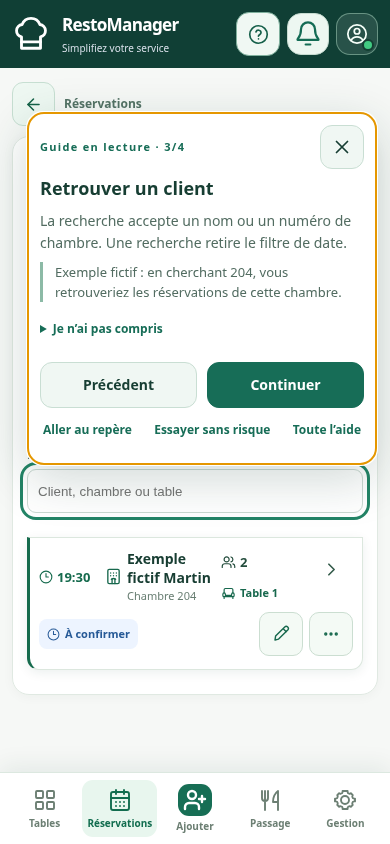
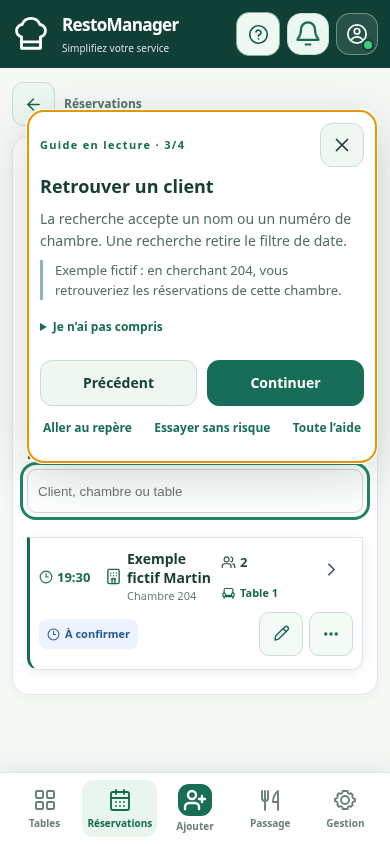
fix(rm016): keep reading controls visible with larger fonts and preserve management coverage

diff --git a/service-v3-tutorial.js b/service-v3-tutorial.js
@@ -39,7 +39,7 @@ export function installTutorial({user, profile, management}) {
 
   function status(message) { centerStatus.textContent = message || (memoryOnly ? 'Votre progression est conservée pour cette visite seulement : l’enregistrement sur cet appareil est indisponible.' : navigator.onLine === false ? 'L’aide reste consultable hors connexion. Les données du service peuvent être anciennes.' : ''); }
   function releaseFrame() { trainingFrame?.remove(); trainingFrame = null; trainingToken = null; }
-  function closeCenter({restore = true} = {}) { releaseFrame(); if (center.open) center.close(); document.body.style.overflow = previousOverflow; helpButton.setAttribute('aria-expanded', 'false'); if (restore && returnFocus?.isConnected) returnFocus.focus({preventScroll: true}); }
+  function closeCenter({restore = true} = {}) { releaseFrame(); if (center.open) center.close(); document.body.style.overflow = previousOverflow; helpButton.setAttribute('aria-expanded', 'false'); if (restore) (returnFocus?.isConnected && visible(returnFocus) ? returnFocus : helpButton).focus({preventScroll: true}); }
   function openCenter(options = {}) {
     if (!validIdentity()) return false;
     const origin = session ? helpButton : document.activeElement;
@@ -133,7 +133,8 @@ export function installTutorial({user, profile, management}) {
     const practice = button('Essayer sans risque', () => { const scenario = session?.course.id === 'notifications' ? 'notifications' : session?.course.id === 'new-booking' ? 'booking' : 'welcome'; openCenter(); showPractice(scenario); }, 'rmLearnTextButton');
     const help = button('Toute l’aide', () => openCenter(), 'rmLearnTextButton');
     const links = el('div', 'rmLearnCoachLinks'); links.append(focus, practice, help);
-    panel.append(top, h, description, result, message, extra, foot, links); panel._refs = {count, h, description, result, message, extra, extraText, prev, next, focus}; document.body.append(panel); return panel;
+    const reading = el('div', 'rmLearnCoachReading'); reading.append(h, description, result, message, extra);
+    panel.append(top, reading, foot, links); panel._refs = {count, h, description, result, message, extra, extraText, prev, next, focus}; document.body.append(panel); return panel;
   }
   function positionCoach() {
     if (!coach) return;
@@ -146,14 +147,22 @@ export function installTutorial({user, profile, management}) {
     const bottomEdge = Math.min((v?.offsetTop || 0) + viewportHeight - (innerWidth < 768 ? 85 : 14), parent ? parent.bottom - 12 : Infinity);
     const width = Math.min(350, rightEdge - leftEdge), maxHeight = Math.max(150, bottomEdge - topEdge);
     coach.style.width = width + 'px'; coach.style.maxHeight = maxHeight + 'px';
-    const h = Math.min(coach.scrollHeight, maxHeight), gap = 14;
+    let h = Math.min(coach.scrollHeight + 2, maxHeight); const gap = 14;
     const candidates = [
       {left: b.right + gap, top: Math.max(topEdge, Math.min(b.top, bottomEdge - h))},
       {left: b.left - width - gap, top: Math.max(topEdge, Math.min(b.top, bottomEdge - h))},
       {left: Math.max(leftEdge, Math.min(b.left, rightEdge - width)), top: b.bottom + gap},
       {left: Math.max(leftEdge, Math.min(b.left, rightEdge - width)), top: b.top - h - gap}
     ];
-    const chosen = candidates.find(p => p.left >= leftEdge && p.left + width <= rightEdge + 1 && p.top >= topEdge && p.top + h <= bottomEdge + 1) || {left: rightEdge - width, top: Math.max(topEdge, bottomEdge - h)};
+    let chosen = candidates.find(p => p.left >= leftEdge && p.left + width <= rightEdge + 1 && p.top >= topEdge && p.top + h <= bottomEdge + 1);
+    if (!chosen && target && visible(target)) {
+      const above = b.top - gap - topEdge, below = bottomEdge - b.bottom - gap, room = Math.max(above, below);
+      if (room >= 160) {
+        const limit = Math.min(maxHeight, Math.floor(room)); coach.style.maxHeight = limit + 'px'; h = Math.min(coach.scrollHeight + 2, limit);
+        chosen = {left: Math.max(leftEdge, Math.min(b.left, rightEdge - width)), top: above >= below ? b.top - h - gap : b.bottom + gap};
+      }
+    }
+    chosen ||= {left: rightEdge - width, top: Math.max(topEdge, bottomEdge - h)};
     coach.style.left = chosen.left + 'px'; coach.style.top = chosen.top + 'px';
   }
   function refreshHighlight() {

diff --git a/service-v3-tutorial.css b/service-v3-tutorial.css
@@ -41,6 +41,7 @@
 .rmLearningHelp{min-width:44px;min-height:44px;display:inline-flex;align-items:center;justify-content:center;gap:7px;border:1px solid #80b09d;border-radius:13px;background:#f0f8f3;color:#155f49;padding:9px 12px;font-size:13px;font-weight:750;cursor:pointer;flex:none}.rmLearningHelp svg{width:21px;height:21px;flex:none}
 .rmLearnCoach{position:fixed;z-index:100060;border:1px solid var(--learn-border);border-radius:19px;box-shadow:0 14px 50px #123e3133;padding:16px;overflow:auto;overscroll-behavior:contain;width:350px;max-width:calc(100vw - 24px)}
 .rmLearnCoach .rmLearnPrimary{color:#fff}.rmNotificationCenter .rmLearnCoach p{margin:8px 0}
+.rmLearnCoach{display:flex;flex-direction:column;overflow:hidden}.rmLearnCoach[hidden]{display:none}.rmLearnCoachReading{overflow:auto;min-height:0;overscroll-behavior:contain}.rmLearnCoachTop,.rmLearnCoachFooter,.rmLearnCoachLinks{flex-shrink:0}
 .rmLearnCoachTop{display:flex;align-items:center;justify-content:space-between;gap:10px}.rmLearnCoachTop .rmLearnIconButton{width:44px;min-height:44px}
 .rmLearnCoach h2{font-size:20px!important;line-height:1.3!important;margin:8px 0 10px!important;color:var(--learn-ink)!important}.rmLearnCoach p{font-size:14px;line-height:1.55;margin:10px 0;color:var(--learn-muted)}
 .rmLearnCoach .rmLearnResult{padding-left:12px;border-left:3px solid #8cbaa6;font-size:13px}.rmLearnCoachExtra{font-size:13px}.rmLearnCoachExtra summary{cursor:pointer;min-height:44px;padding:12px 0;color:var(--learn-green);font-weight:750}.rmLearnCoachExtra p{font-size:13px;margin-top:0}

diff --git a/docs/audits/RM016_LEARNING_20261117.md b/docs/audits/RM016_LEARNING_20261117.md
@@ -29,6 +29,7 @@ L’exercice d’accueil fait rechercher la chambre 204. Le Restaurant ouvre Plu
 - Une reprise de parcours déjà terminé est un nouvel essai reprenable ; fermer une relecture ne la renvoie plus systématiquement à la première étape.
 - La visite du formulaire ne doit pas retenir une vraie table. Les événements automatiques de saisie sont neutralisés pendant le guide et le moteur de maintien refuse alors création/prolongation/confirmation, y compris les tâches différées. Les nettoyages nécessaires d’un ancien maintien restent permis. Un enregistrement déjà en cours empêche de lancer un guide.
 - La confirmation existante de sortie de saisie reste utilisable pendant la navigation du guide. Refuser conserve toutes les valeurs ; quitter le guide restaure l’interactivité précédente des formulaires.
+- Les différences de métriques de polices entre machines ne doivent pas déplacer la carte sur le repère : sa hauteur s’adapte à la place disponible, avec texte défilant et commandes conservées. Le test Gestion vérifie désormais la nouvelle entrée d’aide au-dessus de la navigation mobile.
 - Dans le centre de notifications natif, le guide reste dans le même dialogue, à l’intérieur de ses limites, avec son repère visible et ses contrastes préservés.
 
 ## Sécurité, progression et limites
@@ -56,7 +57,7 @@ Hors connexion, l’aide et les exercices déjà chargés restent utilisables et
 
 [Résultats Playwright détaillés](preuves/rm016-20261117/browser-results.json) et [synthèse locale](preuves/rm016-20261117/local-checks.json).
 
-Les tests parcourent entièrement les onze/huit modules courants dans les trois formats de référence et les premiers pas/exercices d’accueil aux sept largeurs. Ils comparent aussi les libellés enseignés aux vrais boutons de création/confirmation/installation/changement de table et aux menus de chaque rôle. Ils vérifient les vrais repères du DOM pour chaque rôle, les niveaux, les retours, la pause/reprise, les statuts, l’absence de faux appels métier, le clavier, les débordements, le non-recouvrement des repères, l’origine opaque de l’exercice et la vérification des messages. Les scénarios supplémentaires couvrent la saisie RM-011 refusant une sortie, les soumissions réelles bloquées en lecture, les repères disparus, les capacités RM-012/RM-015, le hors connexion, Quoi de neuf ?, la rotation, le stockage indisponible et le changement d’identité.
+Les tests parcourent entièrement les onze/huit modules courants dans les trois formats de référence et les premiers pas/exercices d’accueil aux sept largeurs. Ils comparent aussi les libellés enseignés aux vrais boutons de création/confirmation/installation/changement de table et aux menus de chaque rôle. Ils vérifient les vrais repères du DOM pour chaque rôle, les niveaux, les retours, la pause/reprise, les statuts, l’absence de faux appels métier, le clavier, les débordements, le non-recouvrement des repères (y compris avec texte agrandi sur 360 px), l’origine opaque de l’exercice et la vérification des messages. Les scénarios supplémentaires couvrent la saisie RM-011 refusant une sortie, les soumissions réelles bloquées en lecture, les repères disparus, les capacités RM-012/RM-015, le hors connexion, Quoi de neuf ?, la rotation, le stockage indisponible et le changement d’identité.
 
 Le workflow RM-016 conserve automatiquement captures avant/après et résultats. Les workflows existants de non-régression DEV (Gestion/Assistance, notifications/glissement/PWA, RM-012, formulaires et intégration) s’exécutent sur la PR. Leurs résultats exacts sont consignés dans sa description avant présentation ; un succès local n’est pas présenté comme un succès CI.
 
